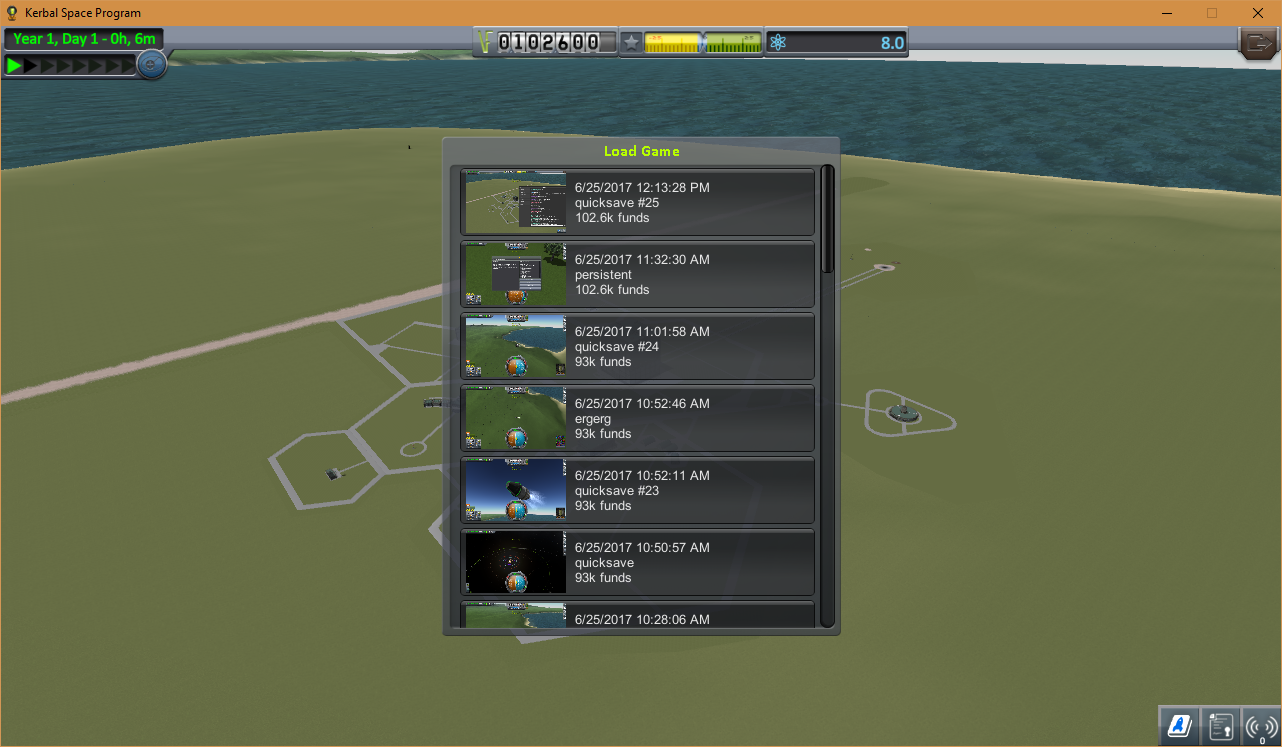
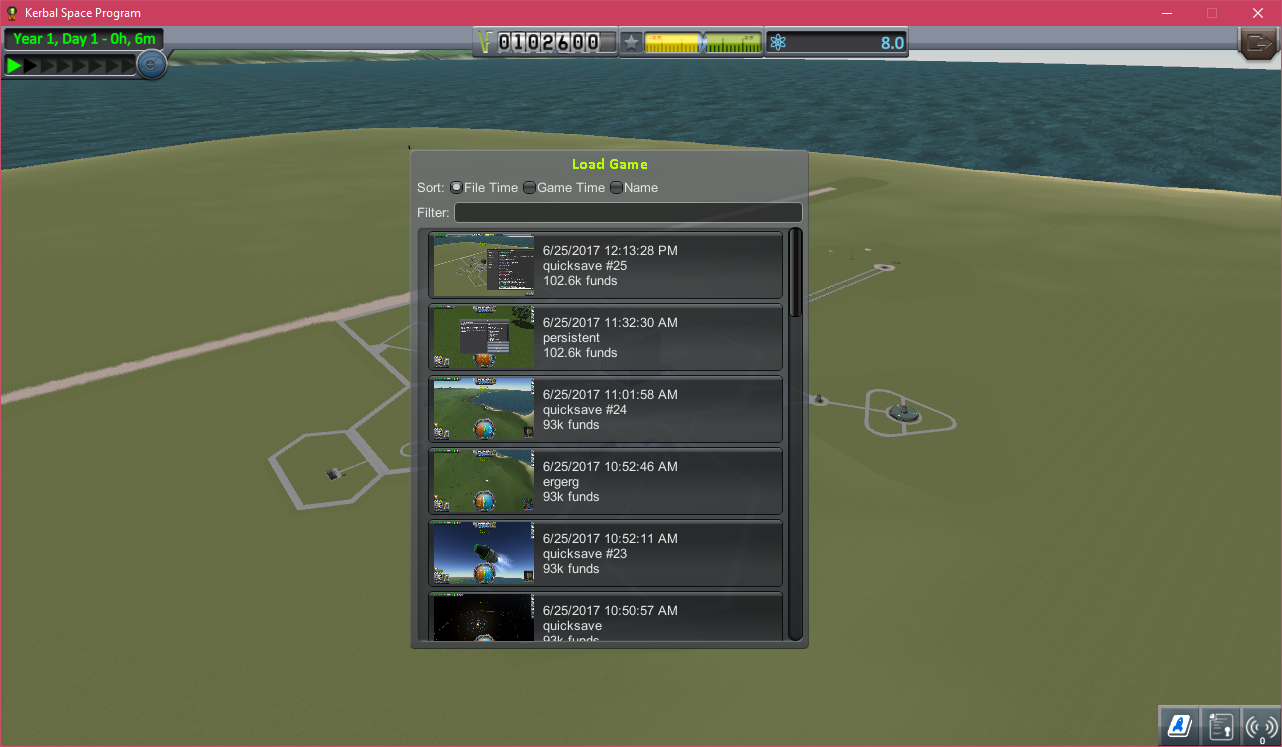
Add sorting and filtering - game time not working yet

diff --git a/src/Main.cs b/src/Main.cs
@@ -8,6 +8,13 @@ namespace BetterLoadSaveGame
     [KSPAddon(KSPAddon.Startup.FlightAndKSC, false)]
     public class Main : MonoBehaviour
     {
+        private enum SortMode
+        {
+            FileTime,
+            GameTime,
+            Name
+        }
+
         private const int WIDTH = 400;
         private const int HEIGHT = 500;
         private SaveGameInfo _saveToLoad;
@@ -22,6 +29,8 @@ namespace BetterLoadSaveGame
         private string _loadScreenshot;
         private Dictionary<string, Texture2D> _screenshots = new Dictionary<string, Texture2D>();
         private Texture2D _placeholder;
+        private string _filterText = "";
+        private SortMode _sortMode = SortMode.FileTime;
 
         private Texture2D LoadPNG(string filePath)
         {
@@ -98,7 +107,29 @@ namespace BetterLoadSaveGame
             {
                 _saves.Add(new SaveGameInfo(saveFile));
             }
-            _saves.Sort((a, b) => b.SaveFile.LastWriteTime.CompareTo(a.SaveFile.LastWriteTime));
+            UpdateSort(SortMode.FileTime);
+        }
+
+        private void UpdateSort(SortMode mode)
+        {
+            _sortMode = mode;
+
+            switch (mode)
+            {
+                case SortMode.FileTime:
+                    Log.Info("Sorting by file time");
+                    _saves.Sort((a, b) => b.SaveFile.LastWriteTime.CompareTo(a.SaveFile.LastWriteTime));
+                    break;
+
+                case SortMode.GameTime:
+                    Log.Info("Sorting by game time");
+                    break;
+
+                case SortMode.Name:
+                    Log.Info("Sorting by file time");
+                    _saves.Sort((a, b) => a.SaveFile.Name.CompareTo(b.SaveFile.Name));
+                    break;
+            }
         }
 
         private void SetVisible(bool visible)
@@ -157,6 +188,14 @@ namespace BetterLoadSaveGame
             }
         }
 
+        private void SortButton(SortMode mode, string text)
+        {
+            if (GUILayout.Toggle(_sortMode == mode, text, GUILayout.ExpandWidth(false)) && _sortMode != mode)
+            {
+                UpdateSort(mode);
+            }
+        }
+
         public void OnGUI()
         {
             try
@@ -168,28 +207,48 @@ namespace BetterLoadSaveGame
 
                     _windowRect = GUILayout.Window(GetInstanceID(), _windowRect, (windowID) =>
                     {
+                        GUILayout.BeginHorizontal();
+
+                        GUILayout.Label("Sort:", GUILayout.ExpandWidth(false));
+                        SortButton(SortMode.FileTime, "File Time");
+                        SortButton(SortMode.GameTime, "Game Time");
+                        SortButton(SortMode.Name, "Name");
+
+                        GUILayout.EndHorizontal();
+
+                        GUILayout.BeginHorizontal();
+
+                        GUILayout.Label("Filter:", GUILayout.ExpandWidth(false));
+                        _filterText = GUILayout.TextField(_filterText);
+
+                        GUILayout.EndHorizontal();
+
                         _scrollPos = GUILayout.BeginScrollView(_scrollPos, HighLogic.Skin.scrollView);
 
                         foreach (var save in _saves)
                         {
-                            var content = new GUIContent();
-                            content.text = save.ButtonText;
-
                             var name = Path.GetFileNameWithoutExtension(save.SaveFile.Name);
-                            Texture2D screenshot;
-                            if (_screenshots.TryGetValue(name, out screenshot))
-                            {
-                                content.image = screenshot;
-                            }
-                            else
-                            {
-                                content.image = _placeholder;
-                            }
 
-                            if (GUILayout.Button(content, buttonStyle))
+                            if (_filterText == "" || name.Contains(_filterText))
                             {
-                                Log.Info("Clicked save: {0}", save.SaveFile.Name);
-                                _saveToLoad = save;
+                                var content = new GUIContent();
+                                content.text = save.ButtonText;
+
+                                Texture2D screenshot;
+                                if (_screenshots.TryGetValue(name, out screenshot))
+                                {
+                                    content.image = screenshot;
+                                }
+                                else
+                                {
+                                    content.image = _placeholder;
+                                }
+
+                                if (GUILayout.Button(content, buttonStyle))
+                                {
+                                    Log.Info("Clicked save: {0}", save.SaveFile.Name);
+                                    _saveToLoad = save;
+                                }
                             }
                         }
 
